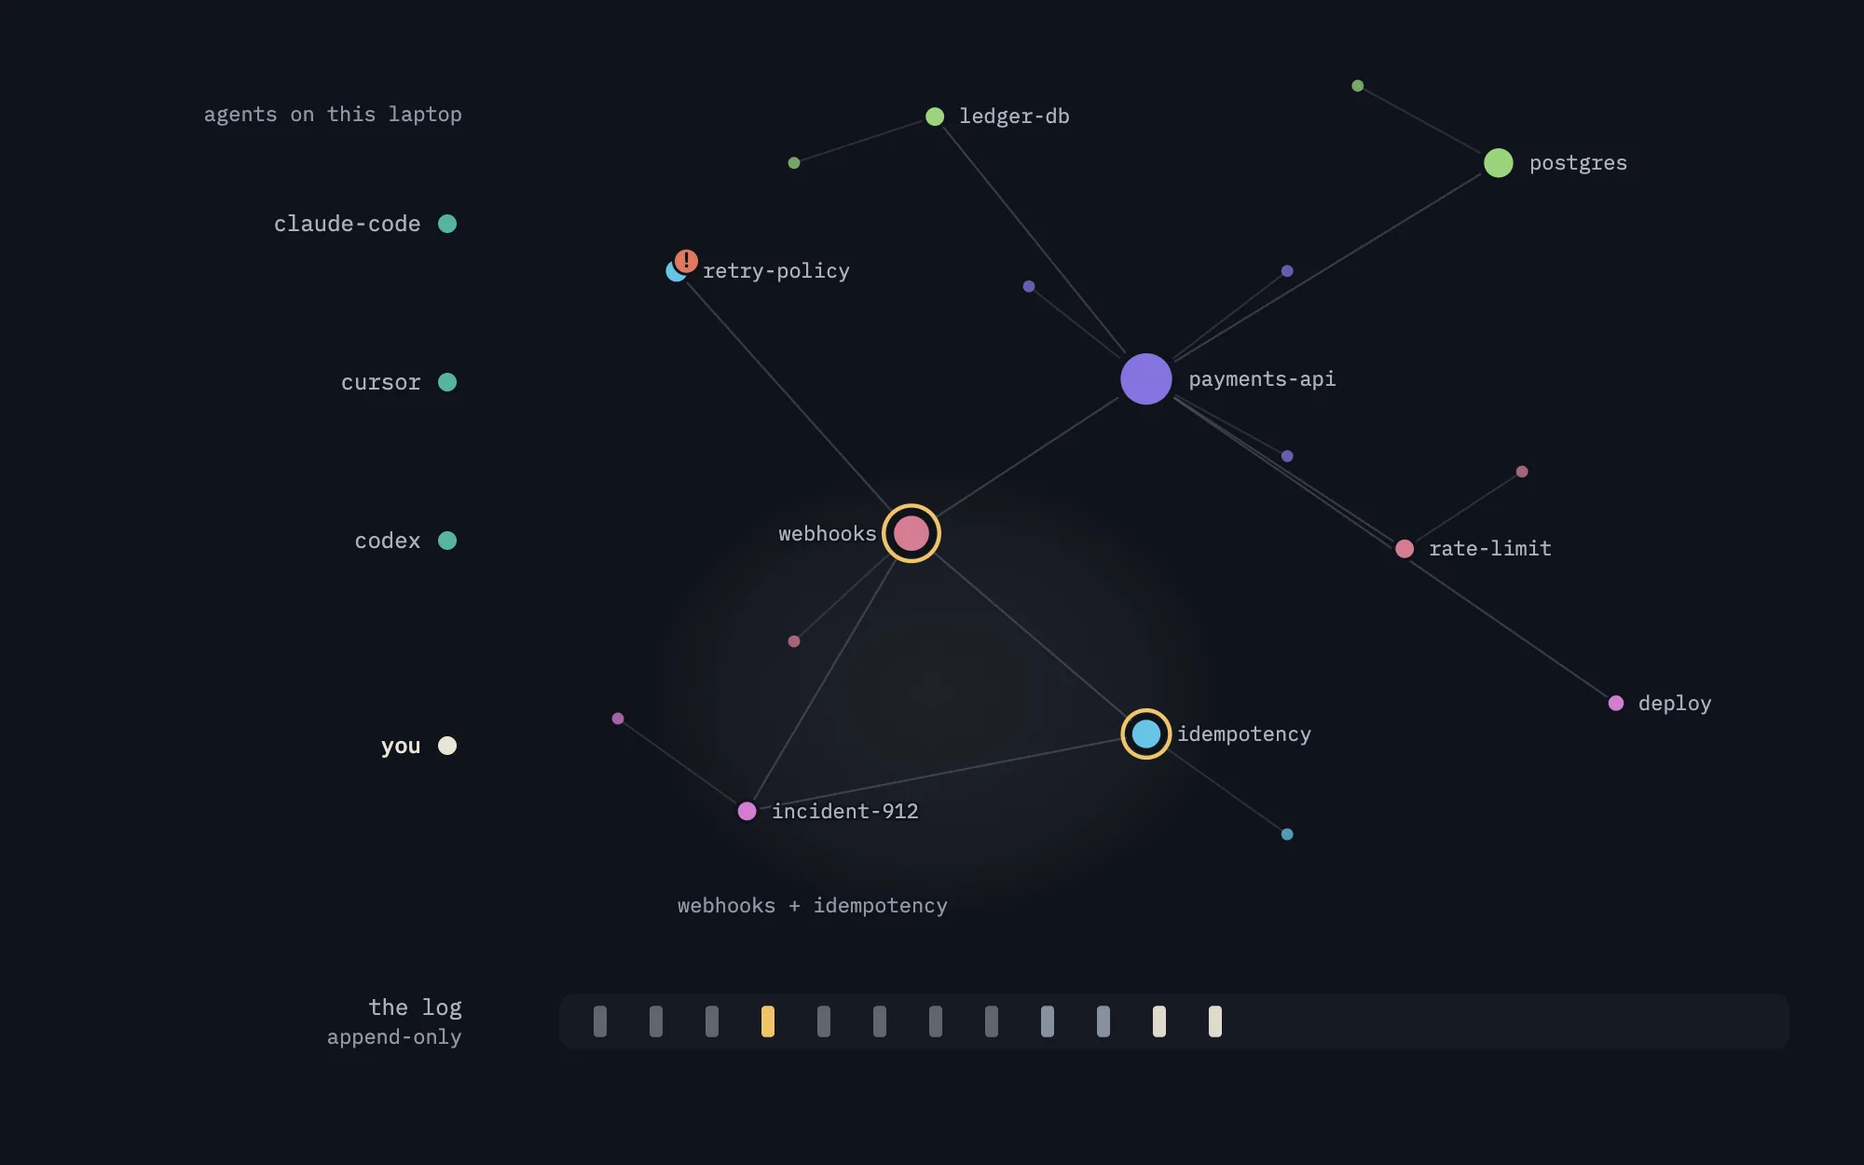
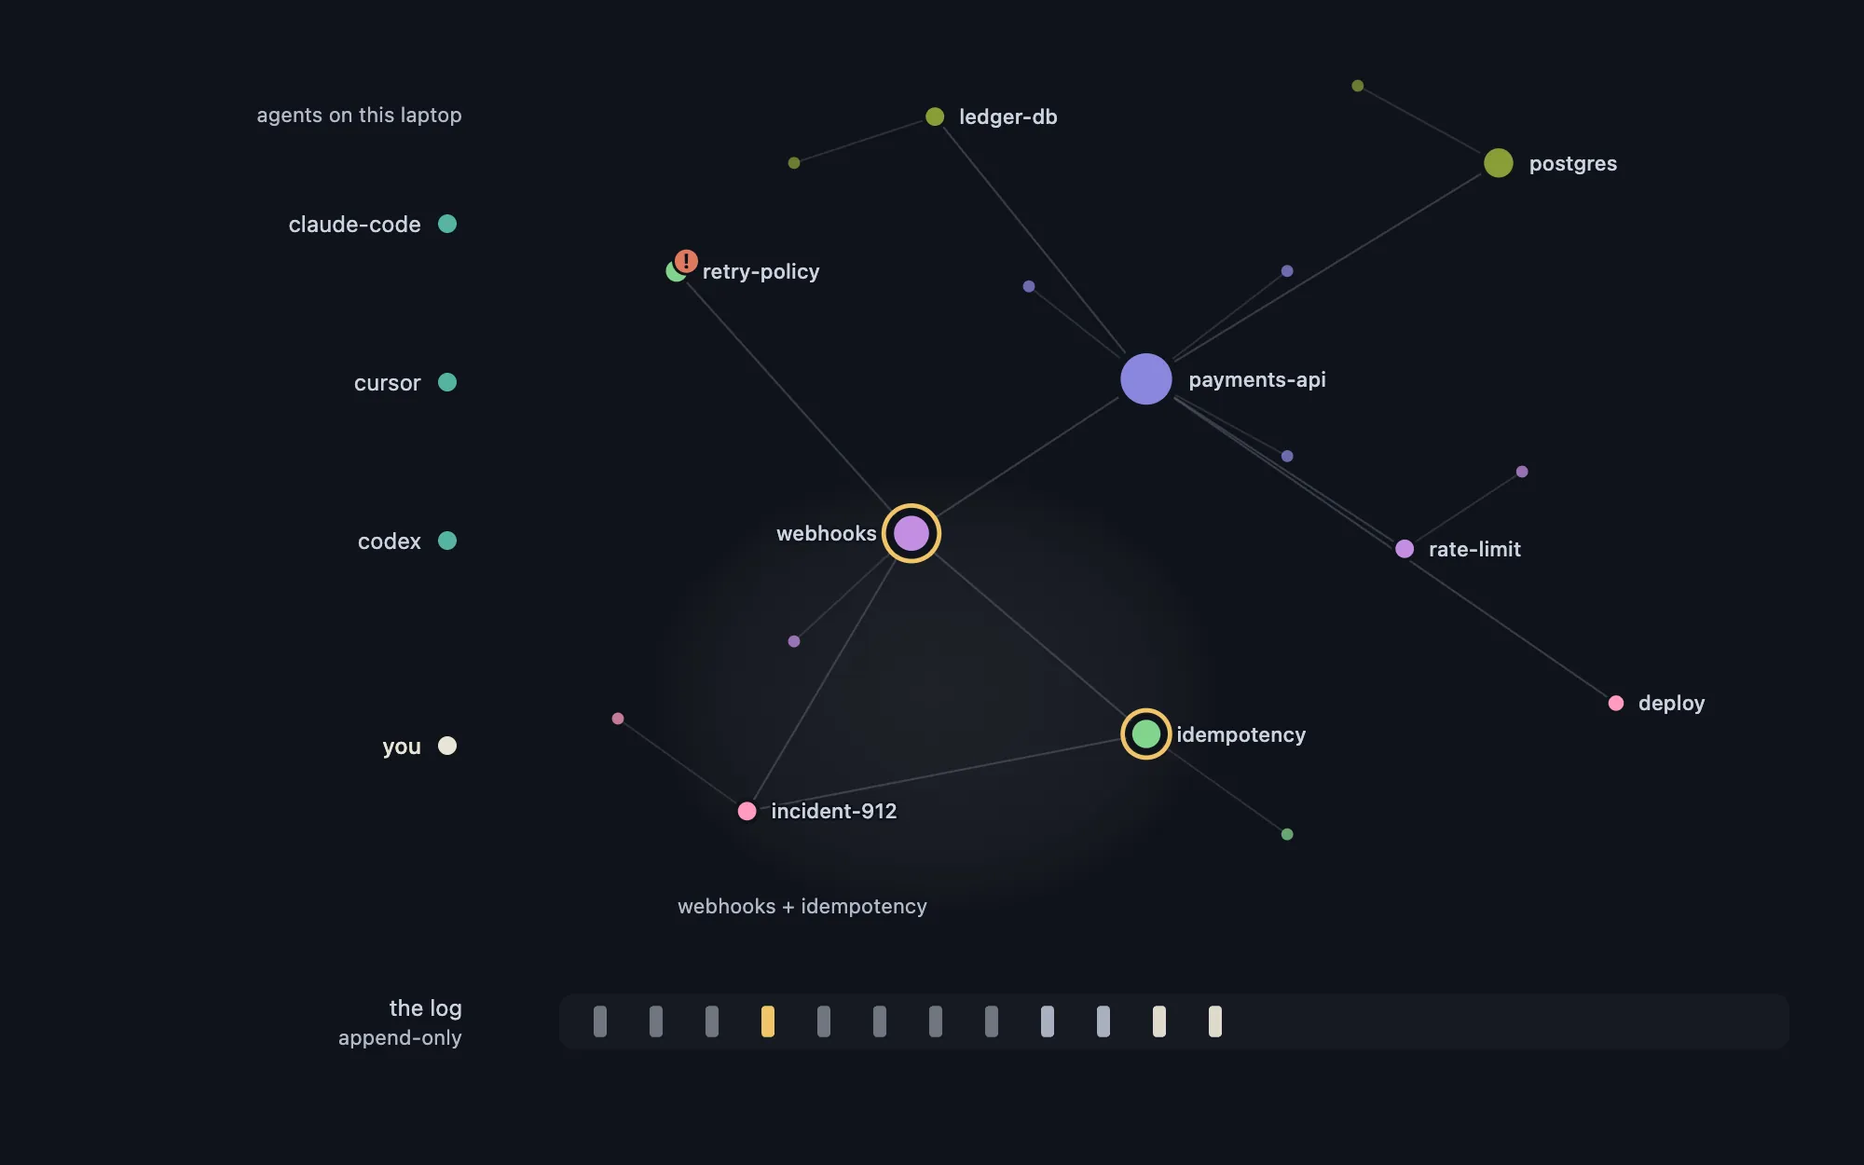
feat(site): labels in the reading face, and the landing's pictures retaken
The site sets commands, identifiers and its uppercase eyebrows in IBM
Plex Mono and every other label - the navigation, captions, counters,
chips, a row's who-line, the ledger's numbers and chapters - in
Pretendard; the wordmark stays mono as a logotype. Nothing on its pages
is under the label size, the ledger's 10-pixel labels among them, and
running text runs at 1.5. The ledger's numbers give way to the chapters'
names where its columns grow too narrow.

The landing's picture of the viewer is retaken from the third pass's
release build, and the stage's poster is redrawn with its rings by
weight and its thin lines.

design-system.md Section 14 step 22. The third pass is built.

diff --git a/site/style.css b/site/style.css
@@ -160,7 +160,7 @@ button { font: inherit; color: inherit; cursor: pointer; }
   justify-content: flex-end;
   gap: 8px 24px;
   margin-left: auto;
-  font: var(--fs-label) var(--mono);
+  font: var(--fs-label) var(--sans);
 }
 .site-head nav a { color: var(--muted); display: inline-flex; align-items: center; min-height: 24px; }
 .site-head nav a:hover { color: var(--ink); text-decoration: none; }
@@ -175,13 +175,13 @@ button { font: inherit; color: inherit; cursor: pointer; }
   max-width: 15ch;
 }
 .hero h1 em { font-style: italic; font-weight: 340; color: var(--gold-bright); }
-.sub { font-size: var(--fs-3); line-height: 1.45; max-width: 40ch; margin: 24px 0 32px; }
+.sub { font-size: var(--fs-3); line-height: 1.5; max-width: 40ch; margin: 24px 0 32px; }
 .next { margin: 12px 0 0; color: var(--ink2); font-size: var(--fs-small); }
 
 .install { max-width: 640px; background: var(--panel); border-radius: var(--r-surface); overflow: hidden; }
 .tabs { display: flex; gap: 2px; padding: 6px 6px 0; }
 .tabs button {
-  font: 500 var(--fs-label) var(--mono);
+  font: 500 var(--fs-label) var(--sans);
   color: var(--muted);
   background: none;
   border: 0;
@@ -203,7 +203,7 @@ button { font: inherit; color: inherit; cursor: pointer; }
 }
 /* the page's one call to action (design-system.md Section 4) */
 .copy {
-  font: 600 var(--fs-label) var(--mono);
+  font: 600 var(--fs-label) var(--sans);
   color: #171204;
   background: var(--accent);
   border: 0;
@@ -215,7 +215,7 @@ button { font: inherit; color: inherit; cursor: pointer; }
   flex-wrap: wrap;
   gap: 8px 22px;
   margin-top: 16px;
-  font: var(--fs-label) var(--mono);
+  font: var(--fs-label) var(--sans);
 }
 .facts {
   list-style: none;
@@ -224,7 +224,7 @@ button { font: inherit; color: inherit; cursor: pointer; }
   gap: 4px 0;
   padding: 0;
   margin: 24px 0 0;
-  font: var(--fs-label) var(--mono);
+  font: var(--fs-label) var(--sans);
   color: var(--muted);
 }
 .facts li + li::before { content: "/"; margin: 0 10px; color: var(--muted); }
@@ -249,7 +249,7 @@ button { font: inherit; color: inherit; cursor: pointer; }
 .step.intro .eyebrow { margin-bottom: 4px; }
 .questions { list-style: none; padding: 0; margin: 6px 0 0; display: grid; gap: 6px; }
 .questions li {
-  font: var(--fs-label) var(--mono);
+  font: var(--fs-label) var(--sans);
   color: var(--ink);
   background: var(--panel);
   border-radius: var(--r-control);
@@ -259,9 +259,9 @@ button { font: inherit; color: inherit; cursor: pointer; }
   gap: 12px;
 }
 .questions li span { color: var(--muted); }
-.num { font: 500 var(--fs-label) var(--mono); letter-spacing: 0.1em; color: var(--muted); }
+.num { font: 500 var(--fs-label) var(--sans); letter-spacing: 0.1em; color: var(--muted); font-variant-numeric: tabular-nums; }
 .num b { color: var(--ink); font-weight: 500; }
-.answers { font: var(--fs-label) var(--mono); color: var(--muted); }
+.answers { font: var(--fs-label) var(--sans); color: var(--muted); }
 .answers b { color: var(--ink); font-weight: 500; }
 
 .snip {
@@ -304,7 +304,7 @@ button { font: inherit; color: inherit; cursor: pointer; }
 .js .stage-box .poster { display: none; }
 .rail { align-items: center; gap: 6px; margin-top: 10px; }
 .rail button {
-  font: 500 var(--fs-label) var(--mono);
+  font: 500 var(--fs-label) var(--sans);
   min-width: 36px;
   height: 32px;
   border: 0;
@@ -314,12 +314,12 @@ button { font: inherit; color: inherit; cursor: pointer; }
 }
 .rail button:hover { background: var(--panel-3); color: var(--ink); }
 .rail button[aria-current="step"] { background: var(--select); color: var(--gold-bright); }
-.rail .caption { flex: 1; text-align: right; font: var(--fs-label) var(--mono); color: var(--muted); padding-right: 6px; }
+.rail .caption { flex: 1; text-align: right; font: var(--fs-label) var(--sans); color: var(--muted); padding-right: 6px; }
 .rail { display: none; }
 .js .rail { display: flex; }
 .replay {
   align-self: flex-start;
-  font: 500 var(--fs-label) var(--mono);
+  font: 500 var(--fs-label) var(--sans);
   border: 0;
   border-radius: var(--r-control);
   padding: 6px 12px;
@@ -391,7 +391,7 @@ button { font: inherit; color: inherit; cursor: pointer; }
 
 .start { list-style: none; counter-reset: s; padding: 0; margin: 28px 0 0; display: grid; gap: 28px; max-width: 760px; }
 .start > li { counter-increment: s; display: grid; gap: 10px; }
-.start h3::before { content: counter(s) "  "; font: 500 var(--fs-label) var(--mono); color: var(--muted); }
+.start h3::before { content: counter(s) "  "; font: 500 var(--fs-label) var(--sans); color: var(--muted); font-variant-numeric: tabular-nums; }
 .install-tabs { background: var(--panel); border-radius: var(--r-surface); overflow: hidden; }
 .install-tabs .code { margin: 0; border-radius: 0; background: var(--panel-2); }
 
@@ -401,7 +401,7 @@ button { font: inherit; color: inherit; cursor: pointer; }
 
 /* ---- footer ---- */
 .site-foot { padding-block: 48px 64px; font-size: var(--fs-small); color: var(--muted); }
-.site-foot nav { display: flex; flex-wrap: wrap; gap: 8px 20px; font: var(--fs-label) var(--mono); margin: 4px 0 14px; }
+.site-foot nav { display: flex; flex-wrap: wrap; gap: 8px 20px; font: var(--fs-label) var(--sans); margin: 4px 0 14px; }
 .site-foot .fine { color: var(--muted); }
 
 /* ---- the principles page (design-system.md Section 11a) ---- */
@@ -431,9 +431,9 @@ button { font: inherit; color: inherit; cursor: pointer; }
 .sky .col[aria-current="true"] { background: var(--select); border: 1px solid var(--gold-bright); box-sizing: border-box; }
 .sky .cell { display: block; height: 9px; border-radius: var(--r-mark); flex: none; }
 .sky .labs { margin-top: 6px; }
-.sky .labs span { flex: 1 1 0; min-width: 0; text-align: center; font: 10px/1 var(--mono); color: var(--muted); overflow: hidden; }
+.sky .labs span { flex: 1 1 0; min-width: 0; text-align: center; font: var(--fs-label)/1 var(--sans); font-variant-numeric: tabular-nums; color: var(--muted); overflow: hidden; }
 .sky .chn { margin-top: 8px; }
-.sky .chn span { font: 500 10px/1.2 var(--mono); letter-spacing: 0.08em; color: var(--muted); white-space: nowrap; }
+.sky .chn span { font: 500 var(--fs-label)/1.3 var(--sans); color: var(--muted); white-space: nowrap; }
 .cell.t { background: var(--ink); }
 .cell.s { background: repeating-linear-gradient(135deg, var(--ink2) 0 3px, var(--muted) 3px 5px); }
 .cell.p { background: color-mix(in srgb, var(--bad) 32%, var(--panel)); }
@@ -452,15 +452,15 @@ button { font: inherit; color: inherit; cursor: pointer; }
 .detail h3, .detail .dt { margin: 4px 0 6px; }
 .detail .dl { font-size: var(--fs-small); margin-bottom: 12px; }
 .cl { list-style: none; margin: 0; padding: 0; display: grid; gap: 7px; }
-.cl li { display: grid; grid-template-columns: 14px minmax(0, 1fr); gap: 10px; font-size: var(--fs-small); line-height: 1.45; }
+.cl li { display: grid; grid-template-columns: 14px minmax(0, 1fr); gap: 10px; font-size: var(--fs-small); line-height: 1.5; }
 .cl li i { margin-top: 6px; }
-.cl .st { display: block; font: var(--fs-label)/1.5 var(--mono); color: var(--muted); }
+.cl .st { display: block; font: var(--fs-label)/1.5 var(--sans); color: var(--muted); }
 
 /* the chapters */
 .chnav { position: sticky; top: env(safe-area-inset-top, 0px); z-index: 2; background: var(--surface); padding-block: 10px; }
 .chnav .wrap { display: flex; gap: 6px; overflow-x: auto; scrollbar-width: none; }
 .chnav a { flex: none; font-size: var(--fs-label); color: var(--ink2); background: var(--panel); padding: 9px 12px; border-radius: var(--r-capsule); }
-.chnav a b { font: 500 var(--fs-label) var(--mono); color: var(--muted); margin-right: 6px; }
+.chnav a b { font: 500 var(--fs-label) var(--sans); color: var(--muted); margin-right: 6px; font-variant-numeric: tabular-nums; }
 .chnav a:hover { background: var(--panel-3); color: var(--ink); text-decoration: none; }
 .chap { padding-block: clamp(36px, 5vw, 56px) 8px; }
 .chap, .tensions, .held { scroll-margin-top: 56px; }
@@ -479,7 +479,7 @@ button { font: inherit; color: inherit; cursor: pointer; }
 .pr .line { color: var(--ink); margin: 10px 0; }
 .pr .why { font-size: var(--fs-small); margin-bottom: 14px; }
 .clauses { margin-top: 12px; }
-.clauses summary { cursor: pointer; list-style: none; display: flex; align-items: center; gap: 8px; flex-wrap: wrap; padding-block: 4px; font: var(--fs-label) var(--mono); color: var(--ink2); }
+.clauses summary { cursor: pointer; list-style: none; display: flex; align-items: center; gap: 8px; flex-wrap: wrap; padding-block: 4px; font: var(--fs-label) var(--sans); color: var(--ink2); }
 .clauses summary::-webkit-details-marker { display: none; }
 .clauses summary::after { content: "+"; color: var(--muted); }
 .clauses[open] summary::after { content: "-"; }
@@ -496,20 +496,20 @@ button { font: inherit; color: inherit; cursor: pointer; }
 .demo canvas.bare { background: transparent; }
 .js .scene canvas, .js .demo canvas { display: block; }
 .beats { margin: 0; padding: 0; list-style: none; display: grid; gap: 8px; font-size: var(--fs-small); }
-.beats .bn { font: 600 var(--fs-label) var(--mono); color: var(--muted); }
+.beats .bn { font: 600 var(--fs-label) var(--sans); color: var(--muted); font-variant-numeric: tabular-nums; }
 .beats .bk { color: var(--ink); font-weight: 600; }
 .js .scene .beats { display: none; }
 .beatbar { display: flex; flex-wrap: wrap; gap: 6px; margin-top: 10px; }
 .beat { font-size: var(--fs-label); line-height: 1; color: var(--ink2); background: var(--panel); border: 0; border-radius: var(--r-capsule); padding: 8px 11px; min-height: 32px; display: inline-flex; gap: 7px; align-items: center; }
-.beat b { font: 600 var(--fs-label)/1 var(--mono); color: var(--muted); }
+.beat b { font: 600 var(--fs-label)/1 var(--sans); color: var(--muted); }
 .beat:hover { color: var(--ink); background: var(--panel-3); }
 .beat[aria-current="step"] { background: var(--select); color: var(--ink); }
 .beat[aria-current="step"] b { color: var(--gold-bright); }
 .beat.play { margin-left: auto; background: transparent; }
 .scene .cap, .demo .cap { margin: 12px 2px 0; font-size: var(--fs-small); color: var(--ink); min-height: 4.6em; }
 .ow { display: block; color: var(--muted); font-size: var(--fs-label); margin-top: 6px; }
-.owed { display: inline-block; font: 500 var(--fs-label)/1 var(--mono); padding: 4px 8px; border-radius: var(--r-capsule); background: var(--panel-3); color: var(--ink2); margin-right: 4px; }
-.shows { margin: 10px 2px 0; font: var(--fs-label)/1.5 var(--mono); color: var(--muted); }
+.owed { display: inline-block; font: 500 var(--fs-label)/1 var(--sans); padding: 4px 8px; border-radius: var(--r-capsule); background: var(--panel-3); color: var(--ink2); margin-right: 4px; }
+.shows { margin: 10px 2px 0; font: var(--fs-label)/1.5 var(--sans); color: var(--muted); }
 .still canvas, .still .beatbar, .still .cap, .still .ctl, .still .rows, .still .counters { display: none !important; }
 .js .still .beats { display: grid; }
 
@@ -527,25 +527,25 @@ button { font: inherit; color: inherit; cursor: pointer; }
 .rows > div:first-child { border-radius: var(--r-surface) var(--r-surface) 0 0; }
 .rows > div:last-child { border-radius: 0 0 var(--r-surface) var(--r-surface); }
 .rows > div:only-child { border-radius: var(--r-surface); }
-.rows .who { font: var(--fs-label) var(--mono); color: var(--muted); }
+.rows .who { font: var(--fs-label) var(--sans); color: var(--muted); }
 .rows .what { color: var(--ink); }
 .rows .dim { opacity: 0.55; }
-.chip { font: 500 var(--fs-label)/1 var(--mono); padding: 5px 8px; border-radius: var(--r-capsule); background: var(--panel-3); color: var(--ink2); white-space: nowrap; justify-self: end; }
+.chip { font: 500 var(--fs-label)/1 var(--sans); padding: 5px 8px; border-radius: var(--r-capsule); background: var(--panel-3); color: var(--ink2); white-space: nowrap; justify-self: end; }
 .chip.bad { color: var(--bad-ink); }
 .chip.gold { color: var(--gold-bright); background: var(--select); }
 .chip.ink { color: var(--ink); }
 .counters { display: none; gap: 10px; margin-top: 12px; flex-wrap: wrap; }
 .js .counters { display: flex; }
 .counters div { background: var(--panel); border-radius: var(--r-surface); padding: 9px 12px; font-size: var(--fs-label); color: var(--muted); }
-.counters b { display: block; font: 600 var(--fs-3)/1.2 var(--mono); color: var(--ink); font-variant-numeric: tabular-nums; }
+.counters b { display: block; font: 600 var(--fs-3)/1.2 var(--sans); color: var(--ink); font-variant-numeric: tabular-nums; }
 .demo .route { margin-bottom: 12px; }
 .ask { display: grid; grid-template-columns: minmax(0, 1fr) minmax(0, 1.1fr); gap: 12px; }
 .qs { display: grid; gap: 6px; align-content: start; }
-.qs button { text-align: left; font-size: var(--fs-small); line-height: 1.35; color: var(--ink2); background: var(--panel); border: 0; border-radius: var(--r-surface); padding: 10px 12px; min-height: 40px; }
+.qs button { text-align: left; font-size: var(--fs-small); line-height: 1.5; color: var(--ink2); background: var(--panel); border: 0; border-radius: var(--r-surface); padding: 10px 12px; min-height: 40px; }
 .qs button:hover:not(:disabled) { color: var(--ink); background: var(--panel-3); }
 .js .qs button[aria-pressed="true"] { background: var(--select); color: var(--ink); }
 .qs button:disabled { color: var(--muted); cursor: default; }
-.qs small { display: block; font: var(--fs-label) var(--mono); color: var(--muted); margin-top: 3px; }
+.qs small { display: block; font: var(--fs-label) var(--sans); color: var(--muted); margin-top: 3px; }
 .ans { background: var(--panel); border-radius: var(--r-surface); padding: 16px; min-width: 0; }
 .p-answers { list-style: none; margin: 0; padding: 0; display: grid; gap: 14px; }
 .js .p-answers li { display: none; }
@@ -559,13 +559,13 @@ button { font: inherit; color: inherit; cursor: pointer; }
 .tmap { display: none; width: 100%; margin-top: 22px; background: var(--panel); border-radius: var(--r-window); cursor: pointer; }
 .js .tmap { display: block; }
 .jd { background: var(--panel); border-radius: var(--r-window); padding: 18px 20px; margin-top: 12px; }
-.jd .vs, .tlist .vs { font: 500 var(--fs-label) var(--mono); color: var(--muted); }
+.jd .vs, .tlist .vs { font: 500 var(--fs-label) var(--sans); color: var(--muted); }
 .jd h3 { margin: 6px 0 8px; }
 .jd .win { color: var(--ink); }
 .tlist { list-style: none; margin: 14px 0 0; padding: 0; display: grid; grid-template-columns: repeat(2, minmax(0, 1fr)); gap: 6px; }
 .tlist li { background: var(--panel); border-radius: var(--r-surface); padding: 12px 14px; }
 .tlist button { all: unset; display: flex; flex-wrap: wrap; gap: 4px 10px; align-items: baseline; color: var(--ink); font-weight: 600; font-size: var(--fs-small); }
-.tlist em { font: normal var(--fs-label) var(--mono); color: var(--muted); }
+.tlist em { font: normal var(--fs-label) var(--sans); color: var(--muted); }
 .tlist .win { font-size: var(--fs-small); margin-top: 6px; }
 .js .tlist .win { display: none; }
 .js .tlist li { padding: 0; }
@@ -596,6 +596,11 @@ button { font: inherit; color: inherit; cursor: pointer; }
   .sky .cols { flex-direction: column; align-items: stretch; height: auto; gap: 8px; }
   .sky .grp { height: 56px; align-items: flex-end; }
   .sky .grp + .grp { margin-left: 0; }
+}
+/* Where a ledger column is narrower than its number at the label size, the numbers give way to the
+   chapters' names, as they do on a phone (design-system.md Section 11a). */
+@media (max-width: 1000px) {
+  .sky .labs { display: none; }
 }
 @media (max-width: 560px) {
   .cmd { flex-direction: column; }

diff --git a/crates/supragnosis-viz/tests/type_scale.rs b/crates/supragnosis-viz/tests/type_scale.rs
@@ -180,3 +180,53 @@ fn cut_text_can_be_read_whole() {
         "nothing tells the status line it is tight"
     );
 }
+
+const LANDING: &str = include_str!("../../../site/style.css");
+
+/// Sections 11 and 11a: the site sets commands, identifiers and its uppercase eyebrows in IBM Plex
+/// Mono and its labels in Pretendard; no text of its pages is set below its label size; and running
+/// text runs at a line height of 1.5 or more. Before the third pass 61% of its texts were mono and the
+/// ledger's labels were 10 pixels.
+#[test]
+fn the_site_sets_its_labels_in_its_reading_face() {
+    const MONO: &[&str] = &[
+        "code",
+        ".eyebrow",
+        ".wordmark",
+        ".snip",
+        ".code",
+        ".given",
+        ".tools dt",
+        ".props .pref",
+        ".detail .dn, .pn",
+        ".p-answers .kind",
+    ];
+    let mut wrong = Vec::new();
+    for (sel, body) in rules(LANDING) {
+        if sel.starts_with(":root") {
+            continue;
+        }
+        if body.contains("var(--mono)") && !MONO.contains(&sel.as_str()) {
+            wrong.push(format!("{sel} is mono"));
+        }
+        for decl in body.split(';').map(str::trim) {
+            if (decl.starts_with("font:") || decl.starts_with("font-size:"))
+                && decl
+                    .split(|c: char| !(c.is_ascii_alphanumeric() || c == '.'))
+                    .any(|w| w.ends_with("px") && w[..w.len() - 2].parse::<f64>().is_ok())
+            {
+                wrong.push(format!("{sel} sets a size in pixels: {decl}"));
+            }
+        }
+    }
+    for sel in [".sub", ".cl li", ".qs button"] {
+        let (_, body) = rules(LANDING)
+            .into_iter()
+            .find(|(s, _)| s == sel)
+            .unwrap_or_else(|| panic!("no rule {sel}"));
+        if !body.contains("line-height: 1.5") {
+            wrong.push(format!("{sel} runs under a line height of 1.5"));
+        }
+    }
+    assert!(wrong.is_empty(), "the site's type:\n  {}", wrong.join("\n  "));
+}

diff --git a/docs/design-system.md b/docs/design-system.md
@@ -14,9 +14,8 @@
 > U12-U14). Dream drafts join the Review page with dreaming.md Section 12 step 5 (U5). The second
 > pass over every screen (Section 1, U15-U20) is built - steps 12-16 - and U19's every-surface half
 > waits on browser scenarios. The third pass, for reading and pressing on a Mac (Section 1, U21-U27),
-> is designed - steps 17-24 - and steps 17, 18 and 24, its defects, reading and the light appearance,
-> are built, with steps 19-21 and 23: lines, shapes and targets, words on the screen, the map's List,
-> and the title bar.
+> is built - steps 17-24: its defects, reading, lines, shapes and targets, words on the screen, the
+> map's List, the site's type, the title bar and the light appearance.
 
 ## 1. Why this exists
 
@@ -1604,7 +1603,7 @@ and it fails when one of them appears in the viewer's source other than as an ar
    line under their names, and every tooltip is written through one helper with a name and its key.
 21. **The map's List** [built] (Section 6; U24): the table, its selection kept with the map's, and the
    canvas's name.
-22. **The site's type** [designed] (Sections 11, 11a): labels in Pretendard, nothing under the label
+22. **The site's type** [built] (Sections 11, 11a): labels in Pretendard, nothing under the label
    size, the ledger's labels as numbers, running text at 1.5, and the landing's picture of the viewer
    retaken once steps 18-21 have changed how it looks.
 23. **The title bar** [built] (Sections 6, 6a; U26): on the Graph page the filters toggle and the
@@ -2099,6 +2098,13 @@ changed it:
 - **The search trails, so its list opens under it toward the left.** Its list was centred under a
   centred field; at the trailing end it would have run off the window, so it is anchored to the
   field's right edge. On the Review page the panel toggles go, since no panel is there.
+- **The wordmark stays mono.** It is a logotype, the product's name drawn as its mark, not a label;
+  every other label on the site is Pretendard now, and the counters and step numbers take tabular
+  figures.
+- **The ledger's numbers give way below 1000 pixels**, where a column grows narrower than "24" at the
+  label size, and the chapters' names stay.
+- **The landing's pictures were retaken.** The viewer's picture shows the third pass's title bar, type
+  and rings, and the stage's poster its rings by weight and its thin lines.
 - **A highlight is a still picture.** Dashes marched along an active edge every frame, so the map
   redrew 60 times a second while a node was held; a solid edge with an arrowhead does not move, and
   the map stops drawing once nothing else does.
